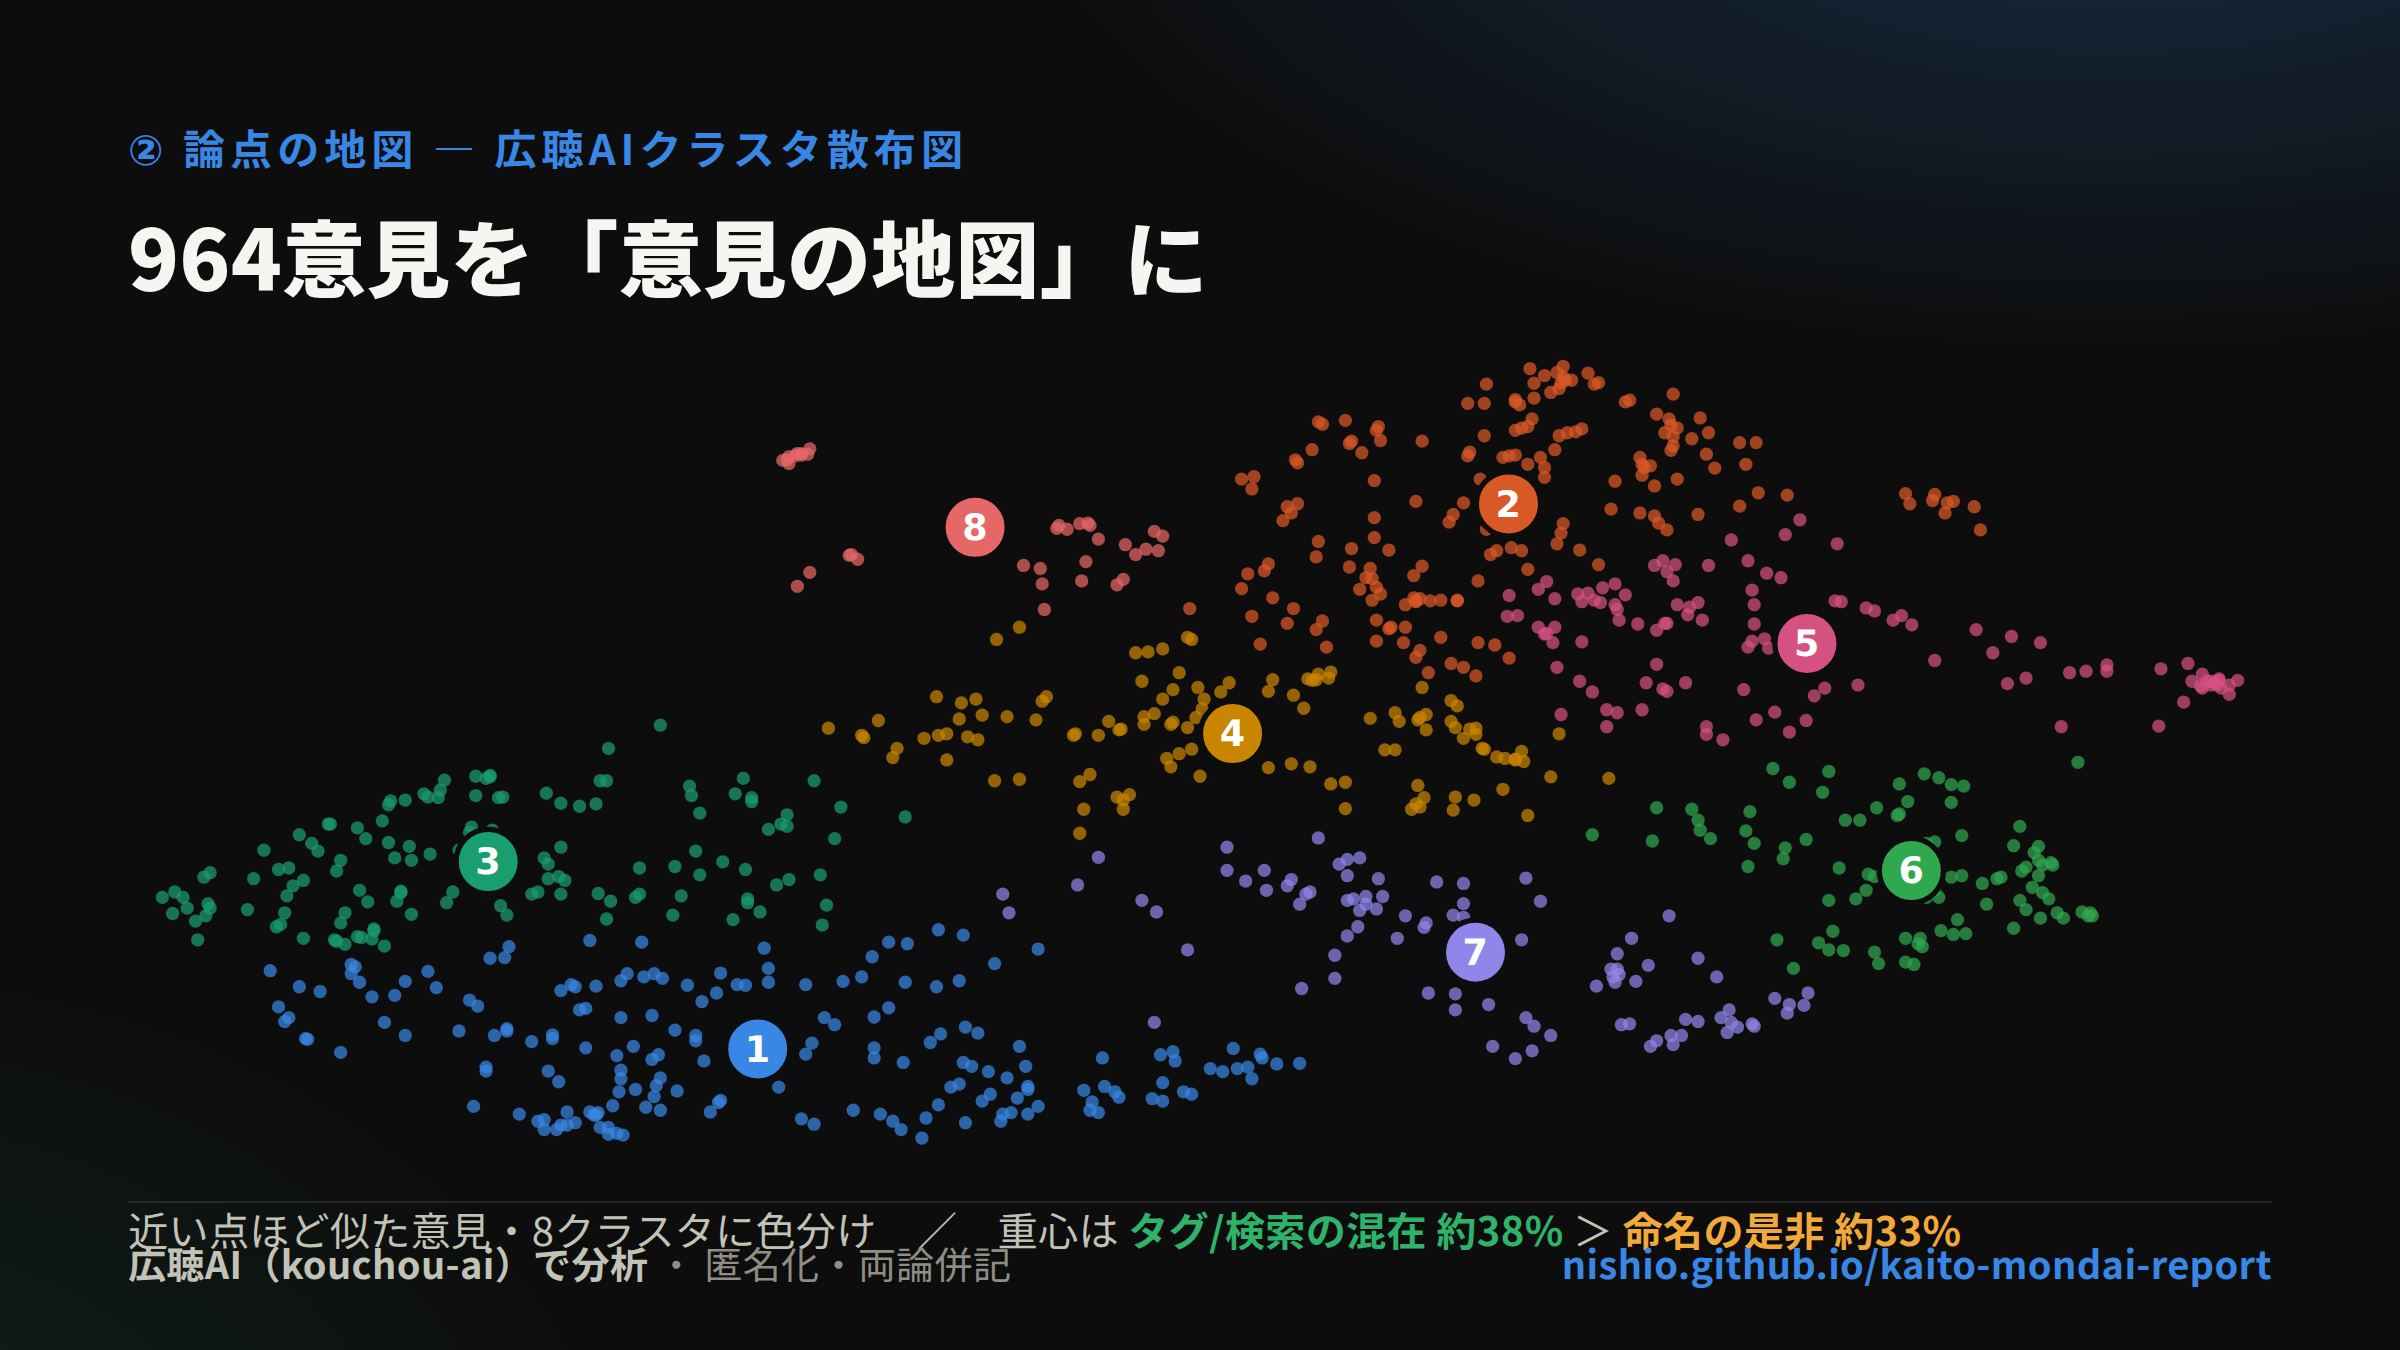
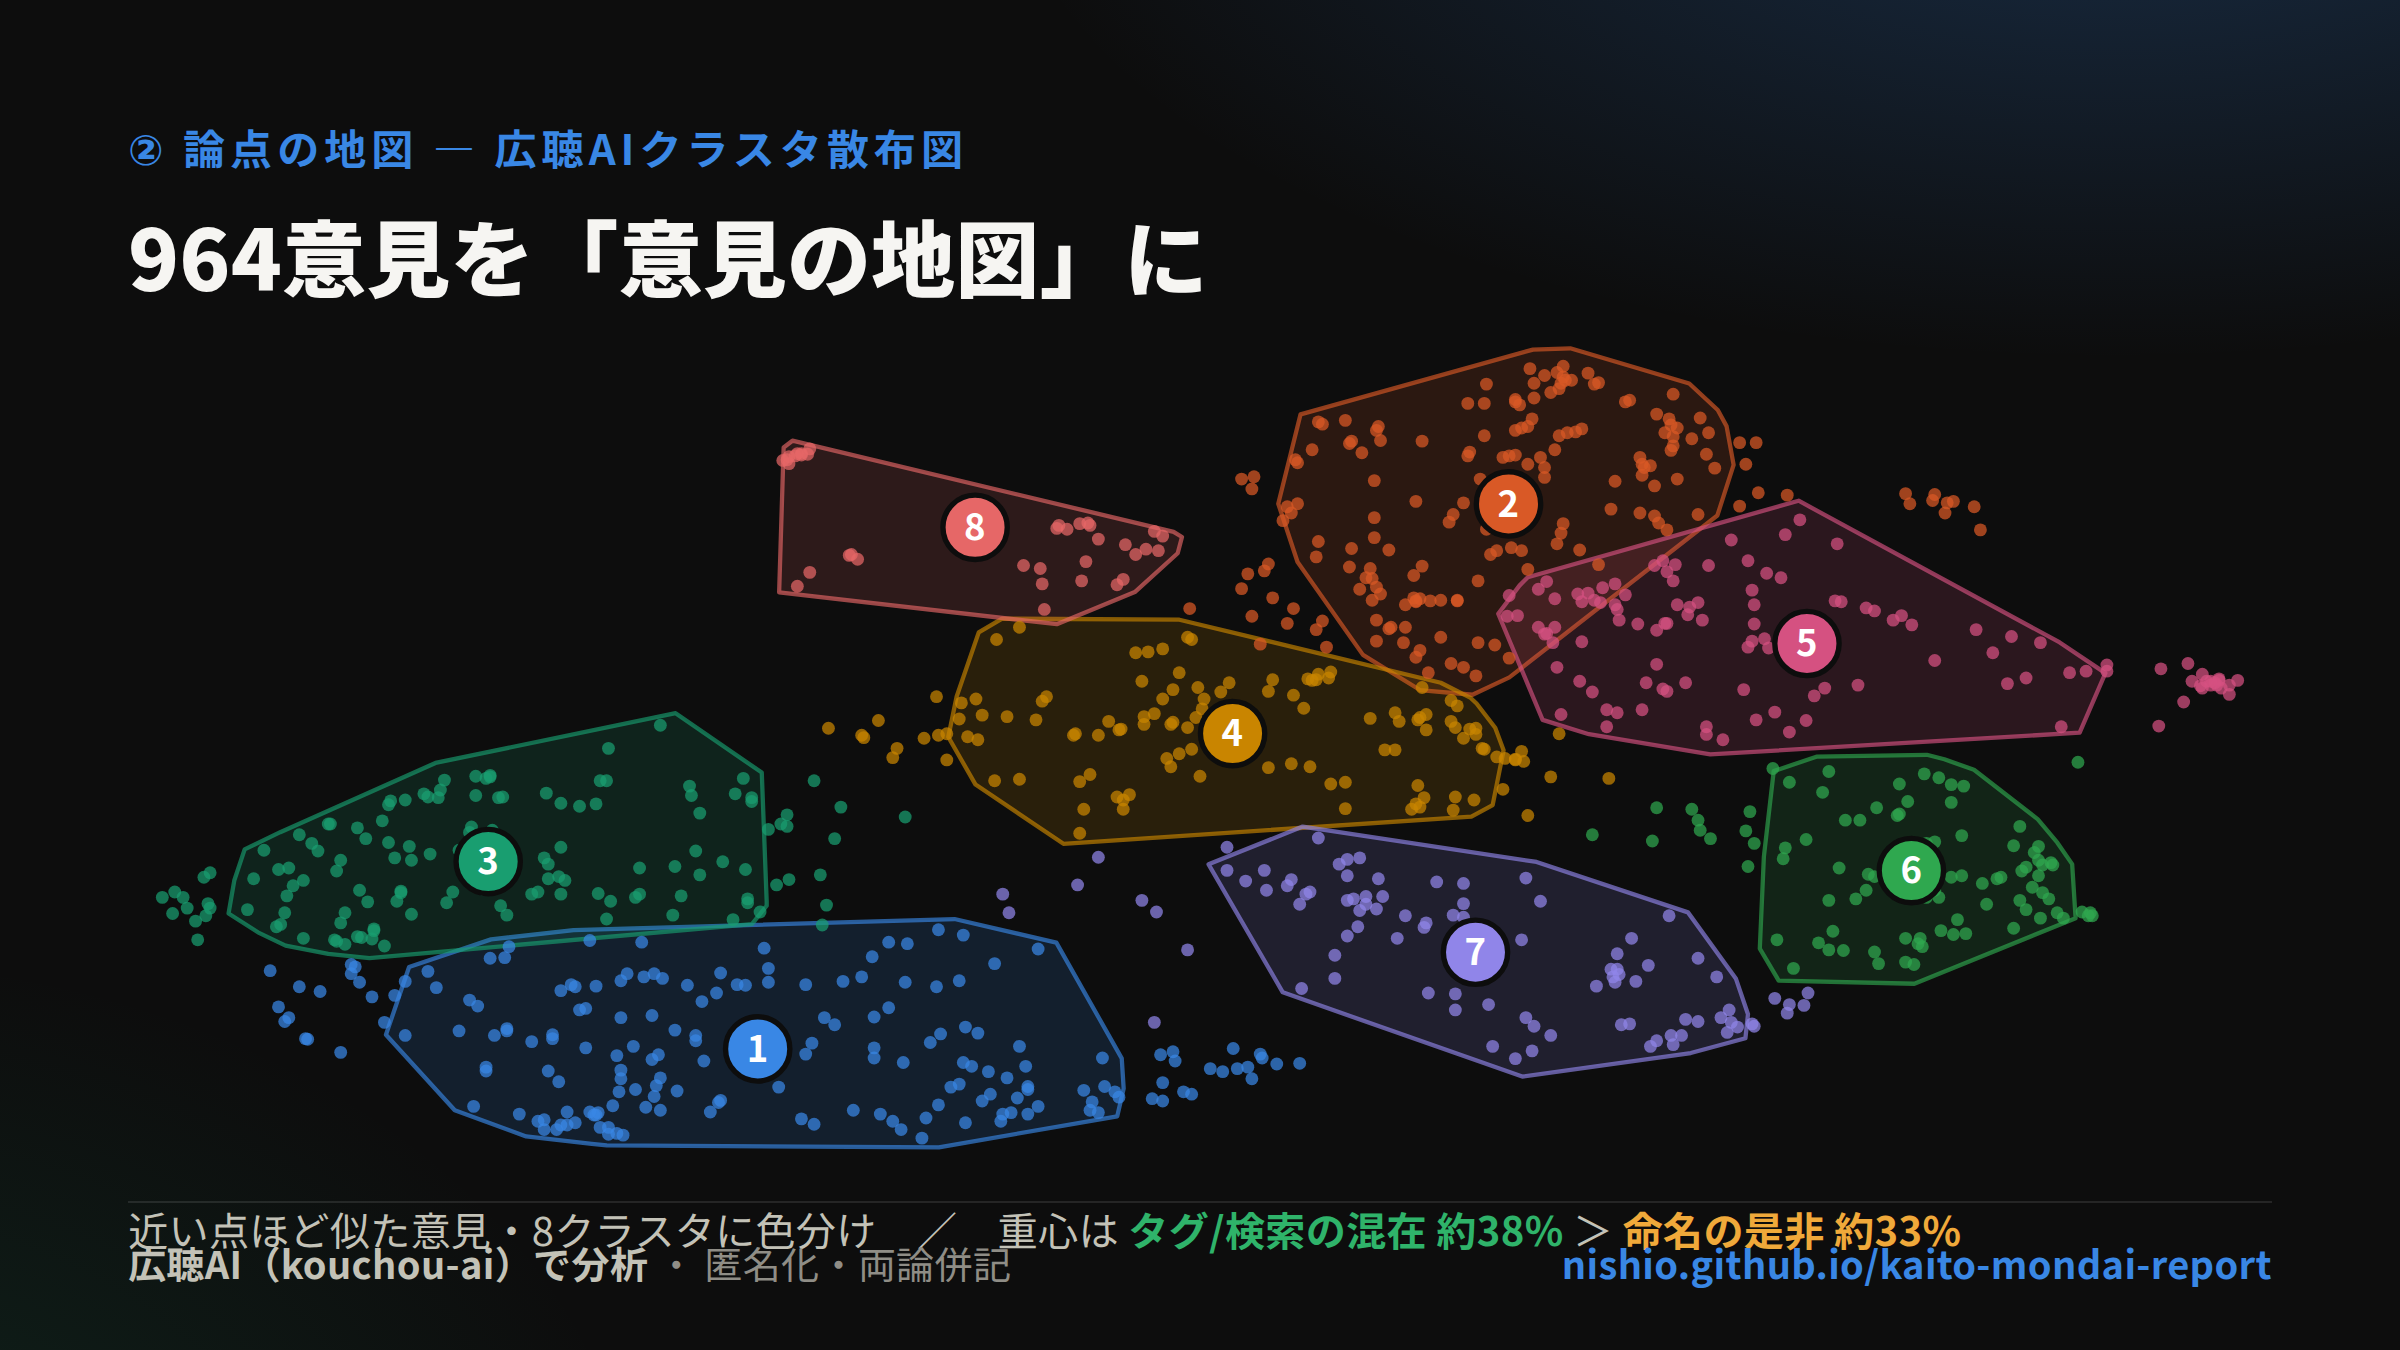
散布図にクラスタ領域（凸包）を追加して境界を明確化
- 各クラスタのコア点(近傍80%)を囲む凸包を半透明塗り+輪郭線で点の背後に描画
- レポート(index.html)とX投稿カード3(cards.html)の両方に適用
- 「意見の地図」としてクラスタの陣地が一目で分かるように

diff --git a/index.html b/index.html
@@ -138,6 +138,9 @@
   #scatter .cen text{fill:#fff; font-size:17px; font-weight:800; font-family:system-ui,sans-serif}
   #scatter .k0{fill:var(--k1)} #scatter .k1{fill:var(--k2)} #scatter .k2{fill:var(--k3)} #scatter .k3{fill:var(--k4)}
   #scatter .k4{fill:var(--k5)} #scatter .k5{fill:var(--k6)} #scatter .k6{fill:var(--k7)} #scatter .k7{fill:var(--k8)}
+  #scatter .hull{fill-opacity:.12; stroke-width:2; stroke-linejoin:round; stroke-opacity:.62}
+  #scatter .hull.k0{stroke:var(--k1)} #scatter .hull.k1{stroke:var(--k2)} #scatter .hull.k2{stroke:var(--k3)} #scatter .hull.k3{stroke:var(--k4)}
+  #scatter .hull.k4{stroke:var(--k5)} #scatter .hull.k5{stroke:var(--k6)} #scatter .hull.k6{stroke:var(--k7)} #scatter .hull.k7{stroke:var(--k8)}
   .cap{font-size:.78rem; color:var(--muted); margin:2px 2px 0}
   .klegend{display:grid; grid-template-columns:1fr 1fr; gap:7px 18px; margin:14px 0 2px; font-size:.86rem}
   .klegend span{display:inline-flex; gap:9px; align-items:baseline; color:var(--ink-2)}
@@ -344,21 +347,36 @@
   (function(){
     var pts=D.points||[], svg=document.getElementById("scatter");
     if(!svg) return;
-    var W=1000,H=640,pad=30, iw=W-2*pad, ih=H-2*pad, f="";
-    var cen=cls.map(function(){return {x:0,y:0,n:0};});
-    var px=function(x){return (pad+x/1000*iw).toFixed(1);};
-    var py=function(y){return (pad+(1-y/1000)*ih).toFixed(1);};
-    for(var i=0;i<pts.length;i++){
-      var p=pts[i], ci=p[2];
-      if(cen[ci]){cen[ci].x+=p[0];cen[ci].y+=p[1];cen[ci].n++;}
-      f+='<circle class="pt k'+ci+'" cx="'+px(p[0])+'" cy="'+py(p[1])+'" r="3.4"><title>#'+(ci+1)+' '+esc((cls[ci]||{}).label||"")+'</title></circle>';
-    }
+    var W=1000,H=640,pad=34, iw=W-2*pad, ih=H-2*pad;
+    var PX=function(x){return pad+x/1000*iw;}, PY=function(y){return pad+(1-y/1000)*ih;};
+    var groups=cls.map(function(){return [];});
+    for(var i=0;i<pts.length;i++){var p=pts[i]; if(groups[p[2]]) groups[p[2]].push([PX(p[0]),PY(p[1])]);}
+    function centroid(ps){var sx=0,sy=0;ps.forEach(function(p){sx+=p[0];sy+=p[1];});return [sx/ps.length,sy/ps.length];}
+    function core(ps,frac){ if(ps.length<=6) return ps; var c=centroid(ps);
+      var d=ps.map(function(p){return [p,(p[0]-c[0])*(p[0]-c[0])+(p[1]-c[1])*(p[1]-c[1])];});
+      d.sort(function(a,b){return a[1]-b[1];}); var keep=Math.max(5,Math.round(ps.length*frac));
+      return d.slice(0,keep).map(function(x){return x[0];}); }
+    function hull(points){ if(points.length<3) return points.slice();
+      var P=points.slice().sort(function(a,b){return a[0]-b[0]||a[1]-b[1];});
+      var cr=function(o,a,b){return (a[0]-o[0])*(b[1]-o[1])-(a[1]-o[1])*(b[0]-o[0]);};
+      var lo=[],hi=[],k;
+      for(k=0;k<P.length;k++){ while(lo.length>=2 && cr(lo[lo.length-2],lo[lo.length-1],P[k])<=0) lo.pop(); lo.push(P[k]); }
+      for(k=P.length-1;k>=0;k--){ while(hi.length>=2 && cr(hi[hi.length-2],hi[hi.length-1],P[k])<=0) hi.pop(); hi.push(P[k]); }
+      lo.pop(); hi.pop(); return lo.concat(hi); }
+    function expand(poly,c,px2){ return poly.map(function(p){var dx=p[0]-c[0],dy=p[1]-c[1],L=Math.sqrt(dx*dx+dy*dy)||1; return [p[0]+dx/L*px2, p[1]+dy/L*px2];}); }
+
+    var hullSvg="", ptSvg="", cenSvg="";
     for(var j=0;j<cls.length;j++){
-      var m=cen[j]; if(!m.n) continue;
-      var cx=px(m.x/m.n), cy=py(m.y/m.n);
-      f+='<g class="cen"><circle class="badge k'+j+'" cx="'+cx+'" cy="'+cy+'" r="15"></circle><text x="'+cx+'" y="'+(parseFloat(cy)+6).toFixed(1)+'" text-anchor="middle">'+(j+1)+'</text></g>';
+      var g=groups[j]; if(!g||!g.length) continue; var c=centroid(g);
+      var hp=expand(hull(core(g,0.80)), c, 11);
+      if(hp.length>=3){ var dd="M"+hp.map(function(p){return p[0].toFixed(1)+","+p[1].toFixed(1);}).join("L")+"Z";
+        hullSvg+='<path class="hull k'+j+'" d="'+dd+'"/>'; }
     }
-    svg.innerHTML=f;
+    for(var i2=0;i2<pts.length;i2++){ var p2=pts[i2],ci=p2[2];
+      ptSvg+='<circle class="pt k'+ci+'" cx="'+PX(p2[0]).toFixed(1)+'" cy="'+PY(p2[1]).toFixed(1)+'" r="3"><title>#'+(ci+1)+' '+esc((cls[ci]||{}).label||"")+'</title></circle>'; }
+    for(var j2=0;j2<cls.length;j2++){ var g2=groups[j2]; if(!g2||!g2.length) continue; var c2=centroid(g2);
+      cenSvg+='<g class="cen"><circle class="badge k'+j2+'" cx="'+c2[0].toFixed(1)+'" cy="'+c2[1].toFixed(1)+'" r="15"></circle><text x="'+c2[0].toFixed(1)+'" y="'+(c2[1]+6).toFixed(1)+'" text-anchor="middle">'+(j2+1)+'</text></g>'; }
+    svg.innerHTML=hullSvg+ptSvg+cenSvg;
   })();
 
   document.getElementById("scatterLegend").innerHTML = cls.map(function(c,i){

diff --git a/cards.html b/cards.html
@@ -131,13 +131,19 @@ el.innerHTML = cards[c] || cards["1"];
 if(c==="3"){
   var K=["#3987e5","#d95926","#199e70","#c98500","#d55181","#2fa84f","#9085e9","#e66767"];
   var pts=(window.KAITO_DATA&&window.KAITO_DATA.points)||[];
-  var W=1000,H=392,pad=16,iw=W-2*pad,ih=H-2*pad,f="";
-  var cen=K.map(function(){return{x:0,y:0,n:0};});
-  function X(x){return (pad+x/1000*iw).toFixed(1);}
-  function Y(y){return (pad+(1-y/1000)*ih).toFixed(1);}
-  for(var i=0;i<pts.length;i++){var p=pts[i],ci=p[2];if(cen[ci]){cen[ci].x+=p[0];cen[ci].y+=p[1];cen[ci].n++;}f+='<circle cx="'+X(p[0])+'" cy="'+Y(p[1])+'" r="3.1" fill="'+K[ci]+'" opacity="0.72"/>';}
-  for(var j=0;j<K.length;j++){var m=cen[j];if(!m.n)continue;var cx=X(m.x/m.n),cy=Y(m.y/m.n);f+='<circle cx="'+cx+'" cy="'+cy+'" r="15" fill="'+K[j]+'" stroke="#0d0d0d" stroke-width="2.5"/><text x="'+cx+'" y="'+(parseFloat(cy)+6).toFixed(1)+'" text-anchor="middle" fill="#fff" font-size="17" font-weight="800" font-family="system-ui">'+(j+1)+'</text>';}
-  document.getElementById("scat").innerHTML=f;
+  var W=1000,H=392,pad=16,iw=W-2*pad,ih=H-2*pad;
+  var PX=function(x){return pad+x/1000*iw;},PY=function(y){return pad+(1-y/1000)*ih;};
+  var G=K.map(function(){return[];});
+  for(var i=0;i<pts.length;i++){var p=pts[i];if(G[p[2]])G[p[2]].push([PX(p[0]),PY(p[1])]);}
+  function ct(ps){var sx=0,sy=0;ps.forEach(function(p){sx+=p[0];sy+=p[1];});return[sx/ps.length,sy/ps.length];}
+  function core(ps,fr){if(ps.length<=6)return ps;var c=ct(ps);var d=ps.map(function(p){return[p,(p[0]-c[0])*(p[0]-c[0])+(p[1]-c[1])*(p[1]-c[1])];});d.sort(function(a,b){return a[1]-b[1];});return d.slice(0,Math.max(5,Math.round(ps.length*fr))).map(function(x){return x[0];});}
+  function hull(P0){if(P0.length<3)return P0.slice();var P=P0.slice().sort(function(a,b){return a[0]-b[0]||a[1]-b[1];});var cr=function(o,a,b){return(a[0]-o[0])*(b[1]-o[1])-(a[1]-o[1])*(b[0]-o[0]);};var lo=[],hi=[],k;for(k=0;k<P.length;k++){while(lo.length>=2&&cr(lo[lo.length-2],lo[lo.length-1],P[k])<=0)lo.pop();lo.push(P[k]);}for(k=P.length-1;k>=0;k--){while(hi.length>=2&&cr(hi[hi.length-2],hi[hi.length-1],P[k])<=0)hi.pop();hi.push(P[k]);}lo.pop();hi.pop();return lo.concat(hi);}
+  function ex(poly,c,q){return poly.map(function(p){var dx=p[0]-c[0],dy=p[1]-c[1],L=Math.sqrt(dx*dx+dy*dy)||1;return[p[0]+dx/L*q,p[1]+dy/L*q];});}
+  var hs="",ps2="",cs="";
+  for(var j=0;j<K.length;j++){var g=G[j];if(!g.length)continue;var c=ct(g);var hp=ex(hull(core(g,0.80)),c,9);if(hp.length>=3){hs+='<path d="M'+hp.map(function(p){return p[0].toFixed(1)+','+p[1].toFixed(1);}).join('L')+'Z" fill="'+K[j]+'" fill-opacity="0.15" stroke="'+K[j]+'" stroke-width="2" stroke-opacity="0.65" stroke-linejoin="round"/>';}}
+  for(var i2=0;i2<pts.length;i2++){var p2=pts[i2],ci=p2[2];ps2+='<circle cx="'+PX(p2[0]).toFixed(1)+'" cy="'+PY(p2[1]).toFixed(1)+'" r="3" fill="'+K[ci]+'" opacity="0.72"/>';}
+  for(var j2=0;j2<K.length;j2++){var g2=G[j2];if(!g2.length)continue;var c2=ct(g2);cs+='<circle cx="'+c2[0].toFixed(1)+'" cy="'+c2[1].toFixed(1)+'" r="15" fill="'+K[j2]+'" stroke="#0d0d0d" stroke-width="2.5"/><text x="'+c2[0].toFixed(1)+'" y="'+(c2[1]+6).toFixed(1)+'" text-anchor="middle" fill="#fff" font-size="17" font-weight="700" font-family="Noto Sans JP,system-ui">'+(j2+1)+'</text>';}
+  document.getElementById("scat").innerHTML=hs+ps2+cs;
 }
 </script>
 </body>
